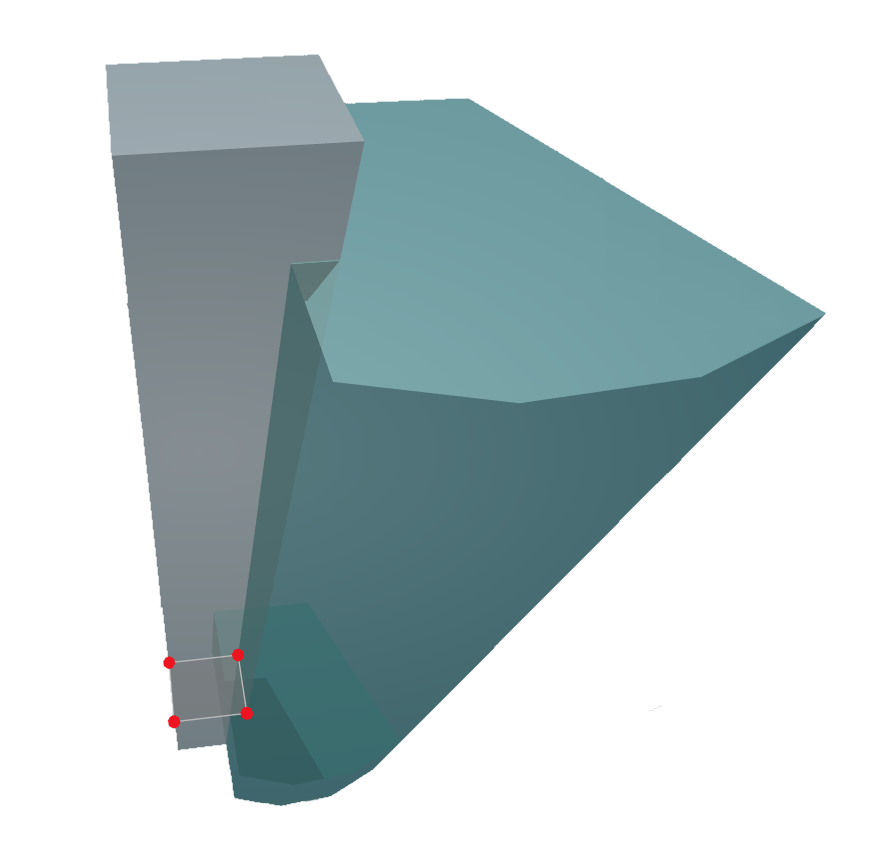
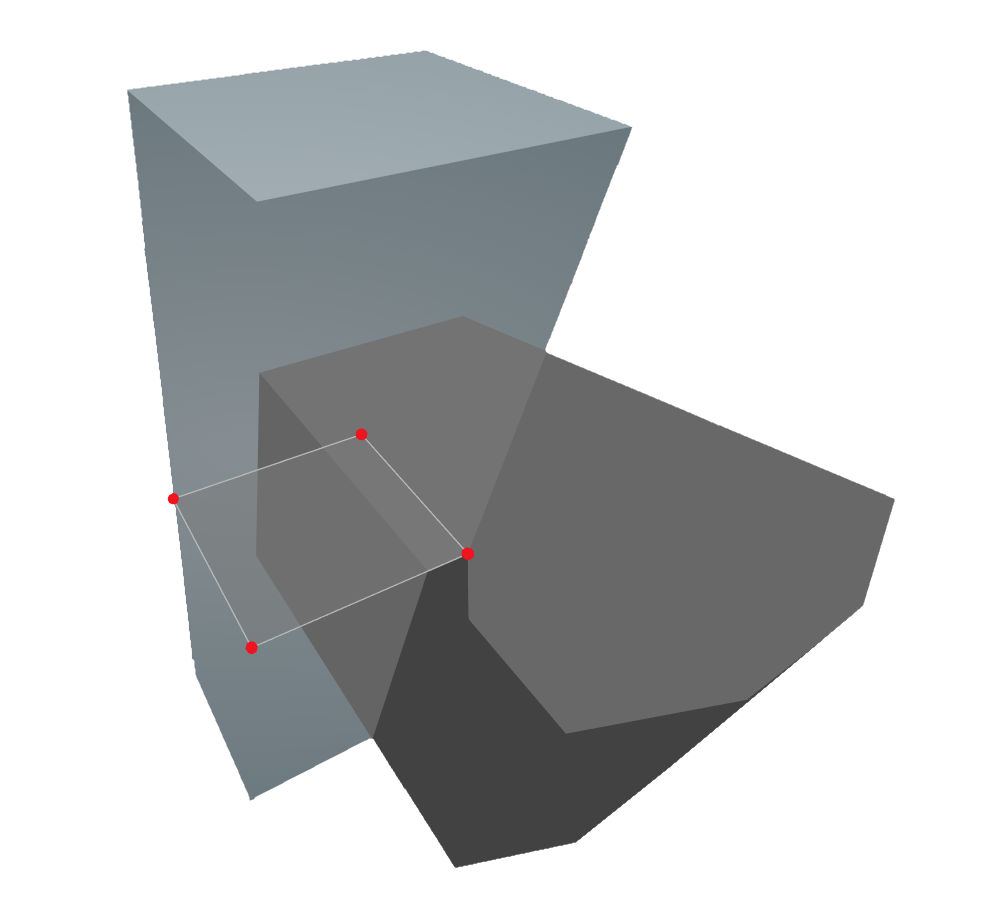
New preview image

diff --git a/Core/CoreBySketch/README.md b/Core/CoreBySketch/README.md
@@ -1,8 +1,8 @@
-
+<img src="preview.png" width="512">
             
 # Core By Sketch
 
-The CoreBySketch function.
+Creates the volume of a building service core by extruding a sketch to a height relative to the highest model Level.
 
 |Input Name|Type|Description|
 |---|---|---|
